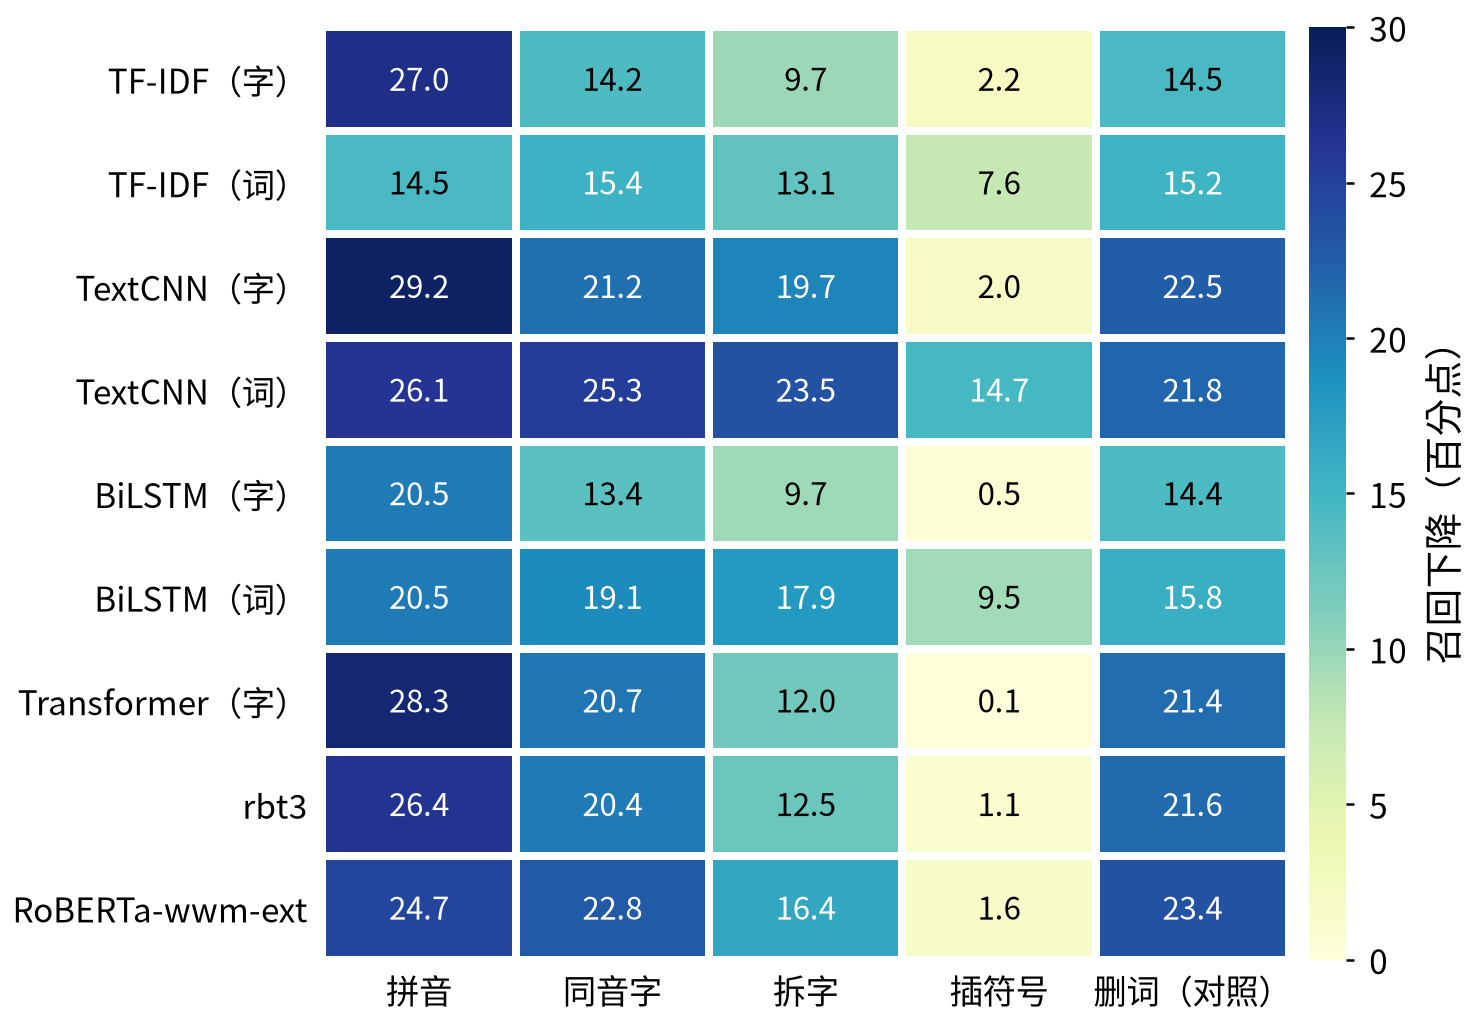
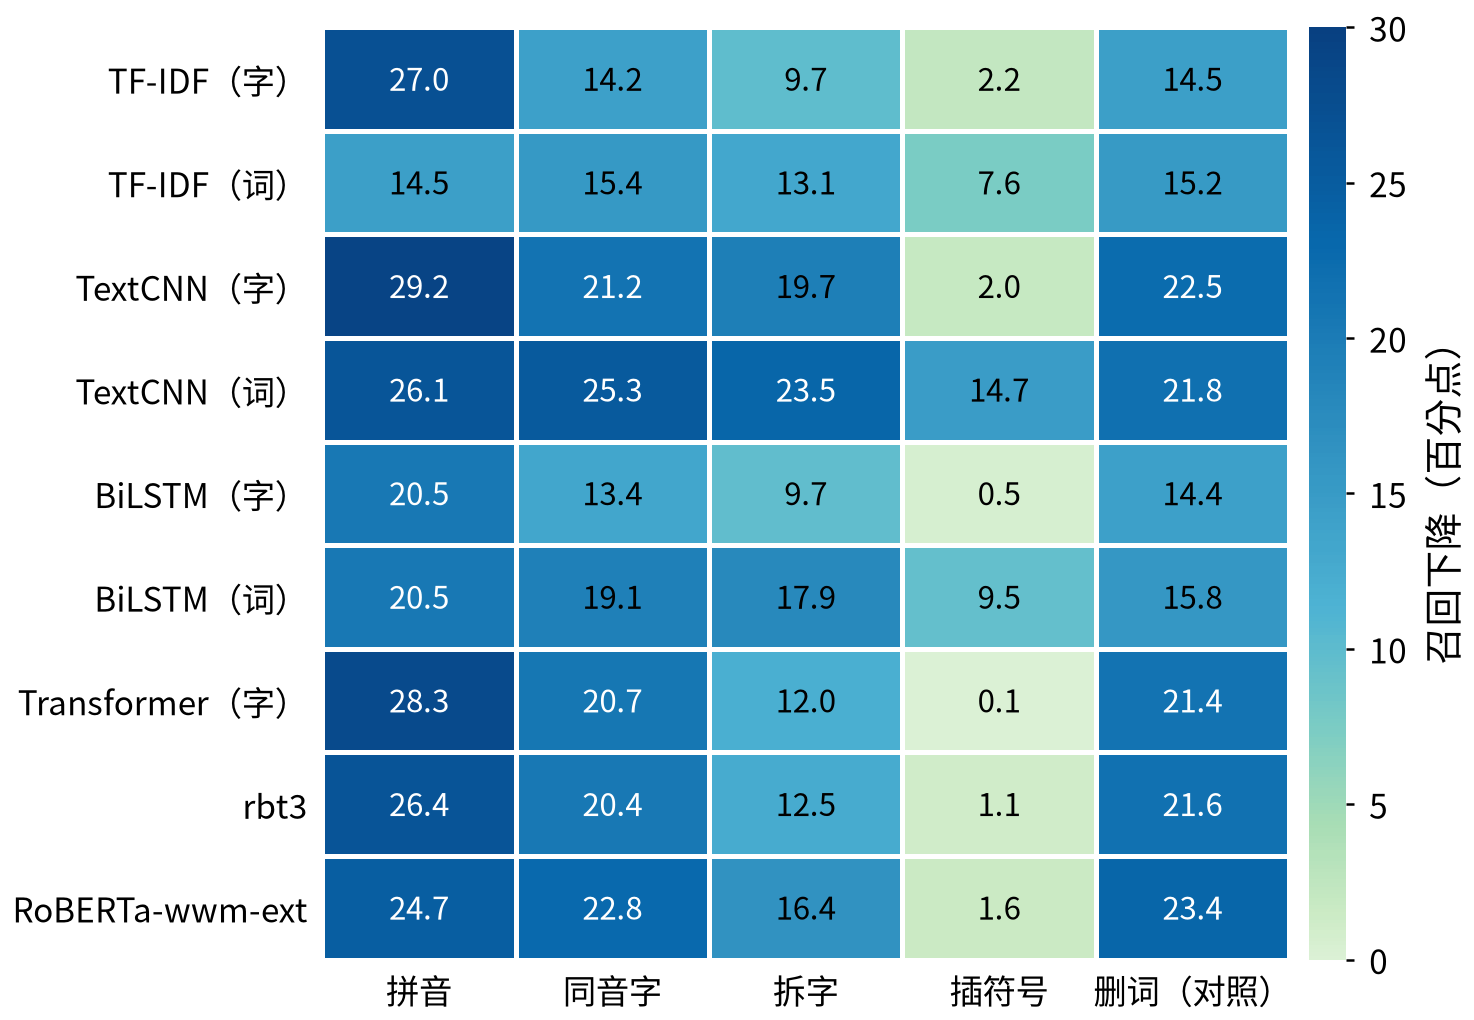
热图改用按明度等步长采样的 GnBu 色带

diff --git a/src/figs_paper.py b/src/figs_paper.py
@@ -39,6 +39,29 @@ def luminance(rgba) -> float:
     return 0.2126 * lin[0] + 0.7152 * lin[1] + 0.0722 * lin[2]
 
 
+def text_color(rgba) -> str:
+    """按 WCAG 对比度在黑字、白字里取对比度高的那个。"""
+    y = luminance(rgba)
+    return "white" if 1.05 / (y + 0.05) > (y + 0.05) / 0.05 else "black"
+
+
+def lightness(rgba) -> float:
+    """CIE L*，0 为黑、100 为白。"""
+    y = luminance(rgba)
+    return 116 * y ** (1 / 3) - 16 if y > 0.008856 else 903.3 * y
+
+
+def even_cmap(name: str = "GnBu", l_hi: float = 93.0):
+    """把色带按明度重新采样成等步长：数值每差一点，深浅变化看起来一样；最浅端截到 L*=l_hi。"""
+    from matplotlib.colors import LinearSegmentedColormap
+    base = plt.get_cmap(name)
+    t = np.linspace(0, 1, 1001)
+    L = np.array([lightness(base(x)) for x in t])          # 单调递减
+    targets = np.linspace(min(l_hi, L[0]), L[-1], 256)
+    ts = np.interp(-targets, -L, t)
+    return LinearSegmentedColormap.from_list(f"{name}_even", [base(x) for x in ts])
+
+
 def ylab(ax, text: str):
     """纵轴标签竖排时整串逆时针转 90°，所以“越高越好”写成 →、“越低越好”写成 ←，转过来正好朝上、朝下。"""
     ax.set_ylabel(text.replace("↑", "→").replace("↓", "←"))
@@ -131,15 +154,15 @@ def fig_cloak():
                 o, e = o[o.pair_id.isin(keep)], e[e.pair_id.isin(keep)]
                 d.append(((o.pred == 1).mean() - (e.pred == 1).mean()) * 100)
             mat[i, j] = np.mean(d)
-    cmap = plt.get_cmap(CMAP_SEQ)
+    cmap = even_cmap("GnBu")
     vmax = 30.0
     fig, ax = plt.subplots(figsize=(0.78 * 6.30, 3.4))
-    mesh = ax.pcolormesh(mat, cmap=cmap, vmin=0, vmax=vmax, edgecolors="white", linewidth=1.5)
+    mesh = ax.pcolormesh(mat, cmap=cmap, vmin=0, vmax=vmax, edgecolors="white", linewidth=1.2)
     for i in range(mat.shape[0]):
         for j in range(mat.shape[1]):
             rgba = cmap(min(max(mat[i, j], 0), vmax) / vmax)
             t = ax.text(j + 0.5, i + 0.5, f"{mat[i, j]:.1f}", ha="center", va="center", fontsize=7.5,
-                        color="white" if luminance(rgba) < 0.4 else "black")
+                        color=text_color(rgba))
             t._in_bar = True
     ax.set_xticks(np.arange(len(F2.KINDS)) + 0.5, [k[1] for k in F2.KINDS])
     ax.set_yticks(np.arange(len(F2.M)) + 0.5, [m[0] for m in F2.M])
@@ -256,7 +279,7 @@ def fig_attr():
             ax.add_patch(Rectangle((x0 + i * cell, y - 0.11), cell, 0.22, facecolor=cmap(0.08 + 0.92 * frac),
                                    edgecolor="none"))
             t = ax.text(x0 + (i + 0.5) * cell, y, ch, ha="center", va="center", fontsize=fsize,
-                        color="white" if luminance(cmap(0.08 + 0.92 * frac)) < 0.4 else "black")
+                        color=text_color(cmap(0.08 + 0.92 * frac)))
             t._in_bar = True
         # 群体词：连续的字合成一个黑框
         i = 0
